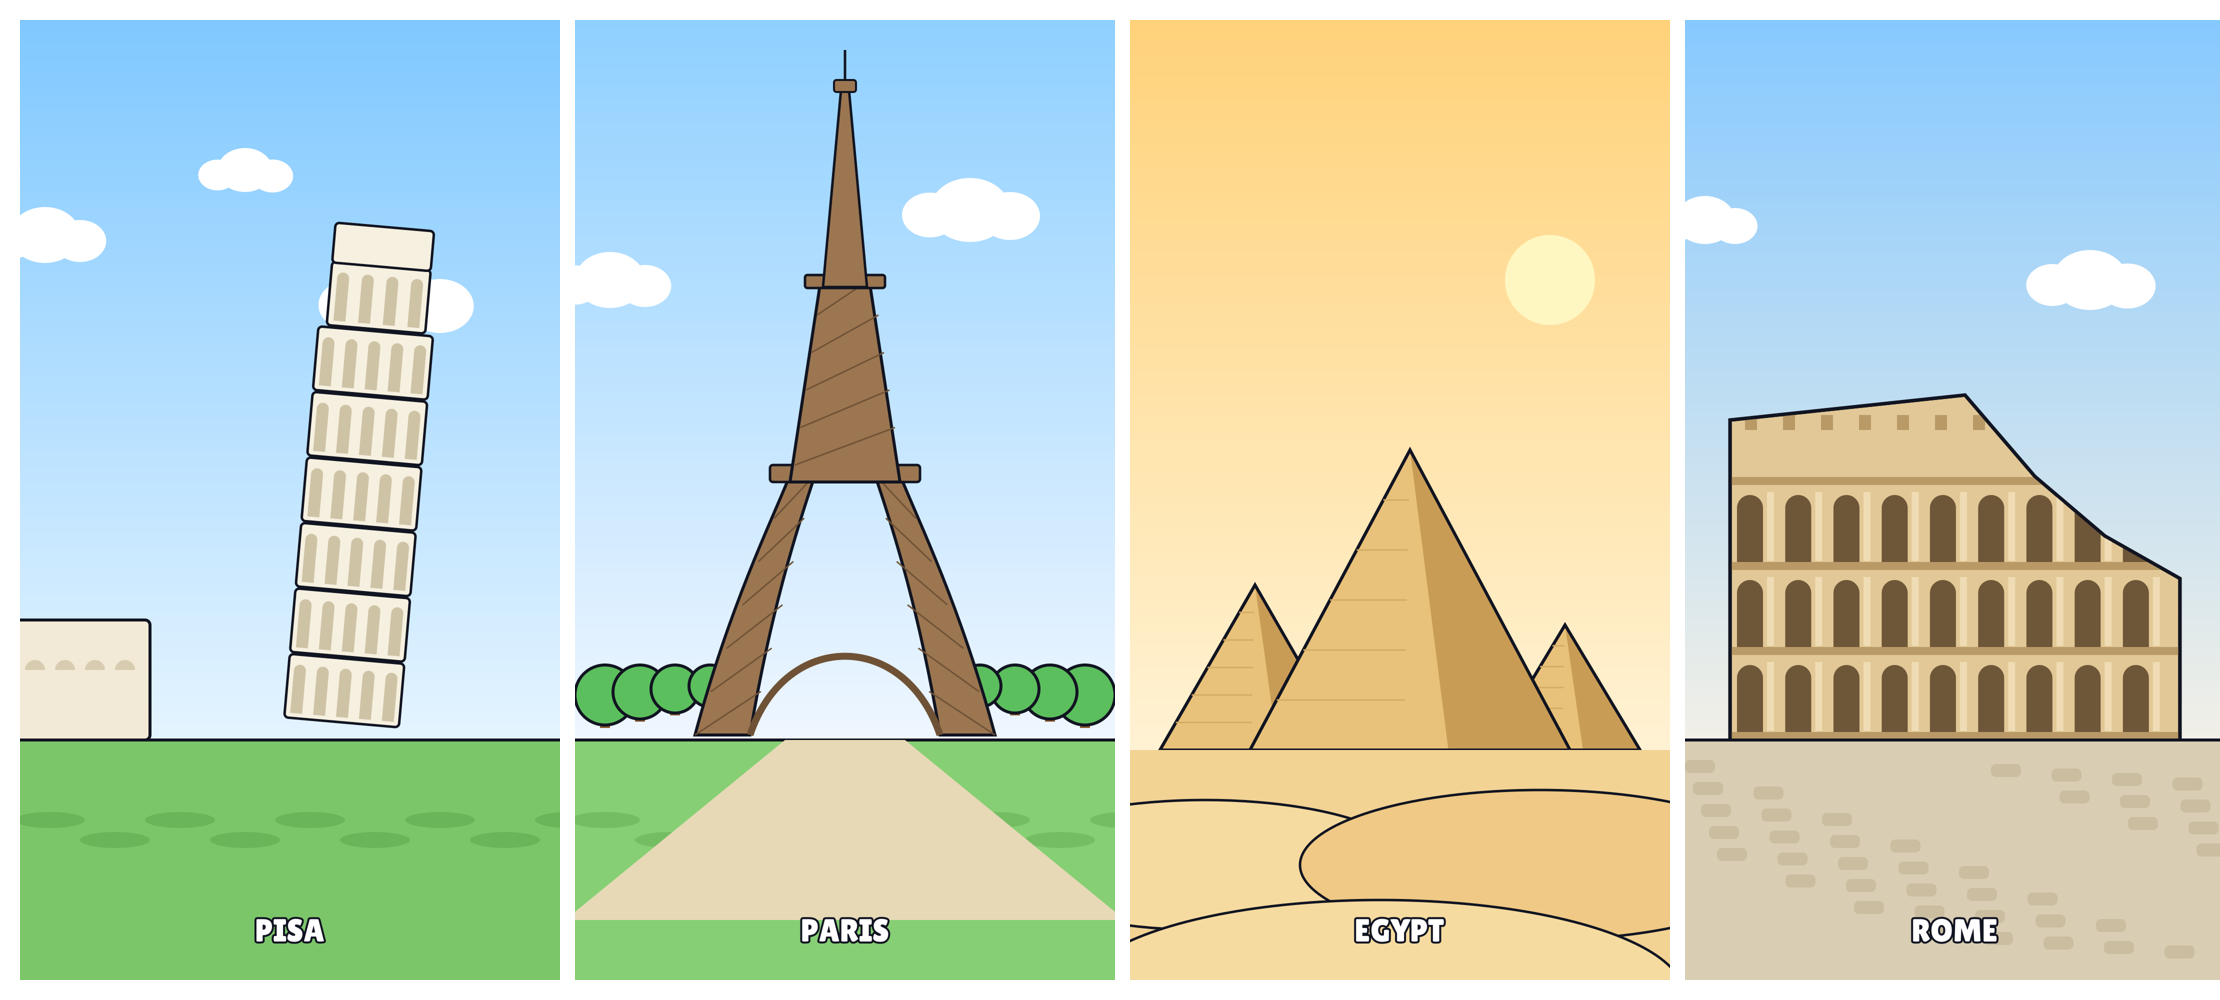
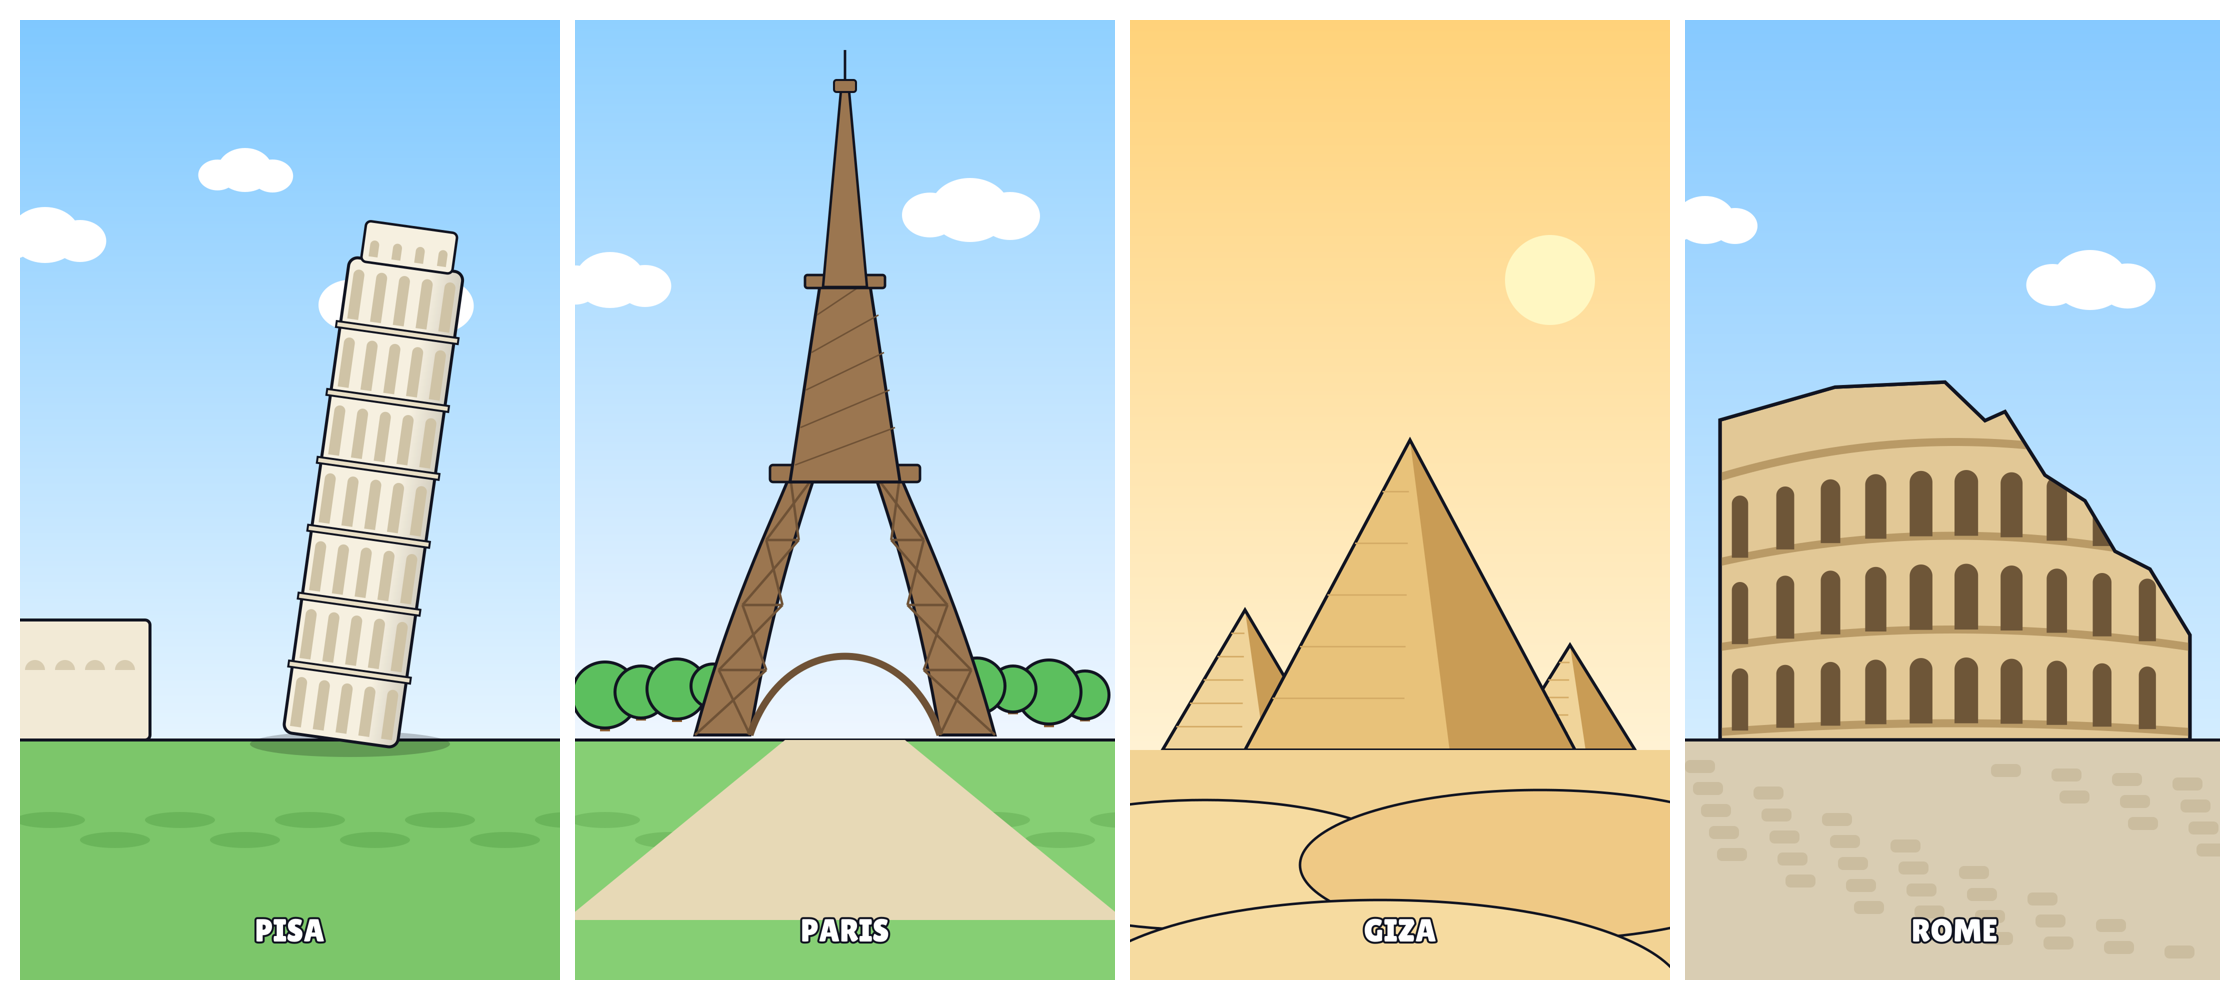
Perfect Trip places: Pisa one rigid 8-degree cylinder with a base shadow; Paris X-bracing and varied trees; Giza quieter side pyramids; Rome curved facade, varied broken edge, flatter sky
Claude-Session: https://claude.ai/code/session_01ED8DLRS3kXn1pdhXqYBM3Q

diff --git a/perfect-selfie/places.py b/perfect-selfie/places.py
@@ -30,17 +30,22 @@ def pisa(c, f=0):
     ground(c, '7cc66a', '6ab55a')
     rr(c, -40, 1200, 300, 240, 10); fs(c, hx('f2ead6'), 6)                    # the cathedral's corner, low at the left
     for i in range(4): c.arc(30 + i * 60, 1300, 20, math.pi, 0); c.set_source_rgb(*hx('d8ccb0')); c.fill()
-    c.save(); c.translate(640, GY - 60); c.rotate(math.radians(5))          # it leans
-    w, h = 230, 960
-    for i in range(7):                                                       # seven arcaded tiers, the bell chamber narrower
-        y0 = -h + i * (h / 7.3); ww = w * (.86 if i == 0 else 1)
-        rr(c, -ww / 2, y0 + 8, ww, h / 7.3 - 4, 8); fs(c, hx('f6f0e0'), 5)
-        n = 5 if i else 4
-        for j in range(n):
-            ax = -ww / 2 + (j + .5) * ww / n
-            c.move_to(ax - 12, y0 + h / 7.3 - 6); c.line_to(ax - 12, y0 + 40); c.arc(ax, y0 + 40, 12, math.pi, 0); c.line_to(ax + 12, y0 + h / 7.3 - 6)
+    ell(c, 660, GY - 52, 200, 26); c.set_source_rgba(0, 0, 0, .22); c.fill()             # contact shadow
+    c.save(); c.translate(640, GY - 60); c.rotate(math.radians(8))          # it leans, as one rigid body
+    w, h = 230, 960; n = 7; th = h / n
+    rr(c, -w / 2, -h, w, h, 18); fs(c, hx('f6f0e0'), 6)                       # one cylinder
+    g = cairo.LinearGradient(-w / 2, 0, w / 2, 0); g.add_color_stop_rgba(0, 0, 0, 0, .0); g.add_color_stop_rgba(.7, 0, 0, 0, .0); g.add_color_stop_rgba(1, 0, 0, 0, .14)
+    rr(c, -w / 2, -h, w, h, 18); c.set_source(g); c.fill()                     # round shading on one side
+    for i in range(n):
+        y0 = -h + i * th
+        if i: c.rectangle(-w / 2 - 8, y0 - 6, w + 16, 12); fs(c, hx('e9dfc6'), 4)  # gallery ledges
+        for j in range(5):
+            ax = -w / 2 + (j + .5) * w / 5
+            c.move_to(ax - 11, y0 + th - 14); c.line_to(ax - 11, y0 + 34); c.arc(ax, y0 + 34, 11, math.pi, 0); c.line_to(ax + 11, y0 + th - 14)
             c.close_path(); c.set_source_rgb(*hx('cfc3a6')); c.fill()
-    rr(c, -w * .43, -h - 70, w * .86, 80, 8); fs(c, hx('f6f0e0'), 5)
+    rr(c, -w * .4, -h - 76, w * .8, 82, 10); fs(c, hx('f6f0e0'), 5)           # the bell chamber
+    for j in range(4):
+        ax = -w * .4 + (j + .5) * w * .8 / 4; c.arc(ax, -h - 30, 9, math.pi, 0); c.line_to(ax + 9, -h - 6); c.line_to(ax - 9, -h - 6); c.close_path(); c.set_source_rgb(*hx('cfc3a6')); c.fill()
     c.restore()
 
 # ---------------- Paris: the iron tower over the Champ de Mars (daylight only)
@@ -48,16 +53,19 @@ def paris(c, f=0):
     sky(c, '8fd0ff', 'f3f8ff'); clouds(c, f, ((180, 520, 70), (900, 380, 80)))
     ground(c, '86cf74', '74bd63')
     c.move_to(-20, GY + 300); c.line_to(420, GY - 60); c.line_to(660, GY - 60); c.line_to(1100, GY + 300); c.close_path(); c.set_source_rgb(*hx('e7d9b6')); c.fill()
-    for i in range(4): tree(c, 60 + i * 70, GY - 150 - i * 6, 60 - i * 6); tree(c, 1020 - i * 70, GY - 150 - i * 6, 60 - i * 6)
+    for i, r in enumerate((66, 52, 60, 44)): tree(c, 60 + i * 72, GY - 150 - i * 6, r); tree(c, 1020 - i * 72, GY - 150 - i * 6, (48, 64, 46, 56)[i])
     IRON, IRON_D = hx('9b7650'), hx('6f5236')
     cx, base = 540, GY - 70
     def leg(q):
         c.move_to(cx + q * 300, base); c.curve_to(cx + q * 230, base - 260, cx + q * 150, base - 420, cx + q * 110, base - 520)
         c.line_to(cx + q * 60, base - 520); c.curve_to(cx + q * 100, base - 400, cx + q * 150, base - 240, cx + q * 190, base)
         c.close_path(); fs(c, IRON, 6)
-        for k in range(6):                                                    # lattice
-            t = k / 6; y = base - 520 * t
-            c.move_to(cx + q * (300 - 190 * t), y); c.line_to(cx + q * (190 - 130 * (t + 1 / 6)), y - 87); c.set_source_rgb(*IRON_D); c.set_line_width(3); c.stroke()
+        for k in range(4):                                                    # a few X-braces, so the legs read as iron lattice
+            t0, t1 = k / 4, (k + 1) / 4
+            ox = lambda t: cx + q * (300 - 190 * t); ix = lambda t: cx + q * (190 - 130 * t); yy = lambda t: base - 520 * t
+            for a_, b_ in (((ox(t0), yy(t0)), (ix(t1), yy(t1))), ((ix(t0), yy(t0)), (ox(t1), yy(t1)))):
+                c.move_to(*a_); c.line_to(*b_); c.set_source_rgb(*IRON_D); c.set_line_width(5); c.stroke()
+            c.move_to(ox(t1), yy(t1)); c.line_to(ix(t1), yy(t1)); c.stroke()
     leg(-1); leg(1)
     c.move_to(cx - 190, base); c.curve_to(cx - 120, base - 210, cx + 120, base - 210, cx + 190, base); c.set_source_rgb(*IRON_D); c.set_line_width(14); c.stroke()   # the arch
     rr(c, cx - 150, base - 540, 300, 34, 6); fs(c, IRON, 5)                    # first platform
@@ -72,9 +80,10 @@ def paris(c, f=0):
 def egypt(c, f=0):
     sky(c, 'ffd27a', 'fff3d6')
     ell(c, 840, 520, 90, 90); c.set_source_rgb(*hx('fff7c2')); c.fill()
-    for x, base_w, hgt in ((250, 380, 330), (870, 300, 250), (560, 640, 600)):   # the big one last, in front
+    for x, base_w, hgt in ((230, 330, 280), (880, 260, 210), (560, 660, 620)):   # the big one last, in front; the side ones smaller
         bx, by = x, GY - 40
-        c.move_to(bx - base_w / 2, by); c.line_to(bx, by - hgt); c.line_to(bx + base_w / 2, by); c.close_path(); fs(c, hx('e8c27a'), 6)
+        side = base_w < 600
+        c.move_to(bx - base_w / 2, by); c.line_to(bx, by - hgt); c.line_to(bx + base_w / 2, by); c.close_path(); fs(c, hx('f0d49a') if side else hx('e8c27a'), 6)
         c.move_to(bx, by - hgt); c.line_to(bx + base_w / 2, by); c.line_to(bx + base_w * .12, by); c.close_path(); c.set_source_rgb(*hx('c99c55')); c.fill()
         c.move_to(bx - base_w / 2, by); c.line_to(bx, by - hgt); c.line_to(bx + base_w / 2, by); c.close_path(); c.set_source_rgb(*INK); c.set_line_width(6); c.stroke()
         for k in range(1, 6): t = k / 6; y = by - hgt * t; c.move_to(bx - base_w / 2 * (1 - t), y); c.line_to(bx - base_w * .02 * (1 - t), y); c.set_source_rgb(*hx('d4ab66')); c.set_line_width(3); c.stroke()
@@ -84,31 +93,36 @@ def egypt(c, f=0):
 
 # ---------------- Rome: the Colosseum, its broken top stepping down to one side
 def rome(c, f=0):
-    sky(c, '86c9ff', 'f6f1e6'); clouds(c, f, ((150, 400, 60), (920, 520, 75)))
+    sky(c, '86c9ff', 'd6eeff'); clouds(c, f, ((150, 400, 60), (920, 520, 75)))
     ST, ST_D, ST_L = hx('e2c896'), hx('b99a66'), hx('efdcb4')
-    left, right, top, base = 90, 990, 760, GY - 60
+    left, right, top, base = 70, 1010, 760, GY - 60
     tiers = 4; th = (base - top) / tiers
-    c.save()
-    c.move_to(left, base); c.line_to(left, top + 40); c.line_to(560, top - 10); c.line_to(700, top + th * .9)       # the broken top: full at the left, stepping down to the right
-    c.line_to(840, top + th * 1.6); c.line_to(right, top + th * 2.1); c.line_to(right, base); c.close_path(); c.clip_preserve(); fs(c, ST, 7)
+    bow = 70                                                                  # the facade curves away: edges higher in the middle
+    cy = lambda x: -bow * (1 - ((x - 540) / 470) ** 2)                       # 0 at the ends, -bow in the middle
+    edge = [(70, 0), (300, -14), (520, -6), (600, 70), (640, 50), (720, 170), (800, 210), (860, 300), (930, 320), (1010, 430)]   # the broken top
+    def outline():
+        c.move_to(left, base); c.line_to(left, top + 40 + cy(left))
+        for x, dy in edge: c.line_to(x, top + 40 + cy(x) + dy)
+        c.line_to(right, base + 0); c.close_path()
+    c.save(); outline(); c.clip_preserve(); fs(c, ST, 7)
     for t in range(tiers):
         y0 = top + t * th
-        c.rectangle(left, y0 + th - 16, right - left, 16); c.set_source_rgb(*ST_D); c.fill()                       # cornices
-        if t == 0: continue                                                                                         # the attic has small windows
-        for j in range(9):
-            ax = left + 40 + j * (right - left - 80) / 8.5
-            c.move_to(ax - 26, y0 + th - 16); c.line_to(ax - 26, y0 + 46); c.arc(ax, y0 + 46, 26, math.pi, 0); c.line_to(ax + 26, y0 + th - 16); c.close_path()
+        c.move_to(left, y0 + th - 16 + cy(left))
+        for x in range(left, right + 1, 20): c.line_to(x, y0 + th - 16 + cy(x) * (1 - t / tiers))
+        c.set_source_rgb(*ST_D); c.set_line_width(16); c.stroke()            # curved cornices
+        if t == 0: continue
+        for j in range(10):
+            ax = left + 40 + j * (right - left - 80) / 9.5; yo = cy(ax) * (1 - t / tiers)
+            w_ = 24 * (1 - .35 * abs(ax - 540) / 470)                         # arches narrow towards the ends: the curve
+            c.move_to(ax - w_, y0 + th - 16 + yo); c.line_to(ax - w_, y0 + 46 + yo); c.arc(ax, y0 + 46 + yo, w_, math.pi, 0); c.line_to(ax + w_, y0 + th - 16 + yo); c.close_path()
             c.set_source_rgb(*hx('6e5638')); c.fill()
-            c.rectangle(ax + 34, y0 + 14, 14, th - 32); c.set_source_rgb(*ST_L); c.fill()                         # half-columns
-    for j in range(12): c.rectangle(left + 30 + j * 76, top + 30, 24, 30); c.set_source_rgb(*ST_D); c.fill()
     c.restore()
-    c.move_to(left, base); c.line_to(left, top + 40); c.line_to(560, top - 10); c.line_to(700, top + th * .9); c.line_to(840, top + th * 1.6); c.line_to(right, top + th * 2.1); c.line_to(right, base)
-    c.set_source_rgb(*INK); c.set_line_width(7); c.stroke()
-    c.rectangle(0, base, W, H - base); c.set_source_rgb(*hx('d9cdb3')); c.fill()                                    # the cobbled square
+    outline(); c.set_source_rgb(*INK); c.set_line_width(7); c.stroke()
+    c.rectangle(0, base, W, H - base); c.set_source_rgb(*hx('d9cdb3')); c.fill()
     c.move_to(0, base); c.line_to(W, base); c.set_source_rgb(*INK); c.set_line_width(6); c.stroke()
     for i in range(40): rr(c, (i * 137) % 1080, base + 40 + (i * 53) % 380, 60, 26, 10); c.set_source_rgb(*hx('cbbd9f')); c.fill()
 
-PLACES = dict(pisa=pisa, paris=paris, egypt=egypt, rome=rome)
+PLACES = dict(pisa=pisa, paris=paris, giza=egypt, rome=rome)
 
 if __name__ == '__main__':
     from PIL import Image
